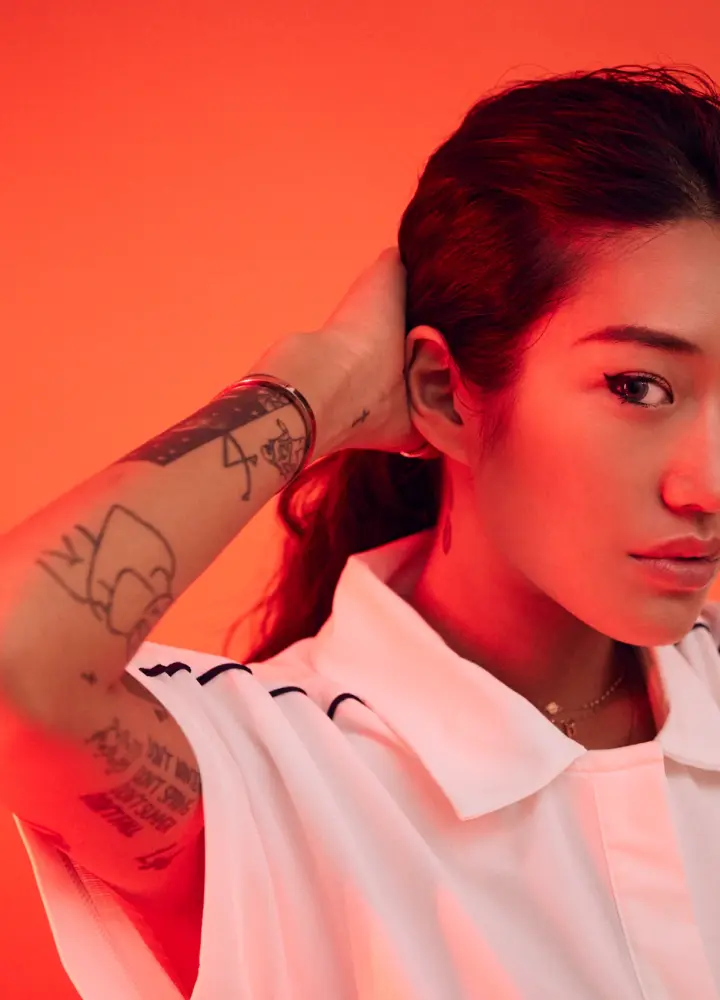
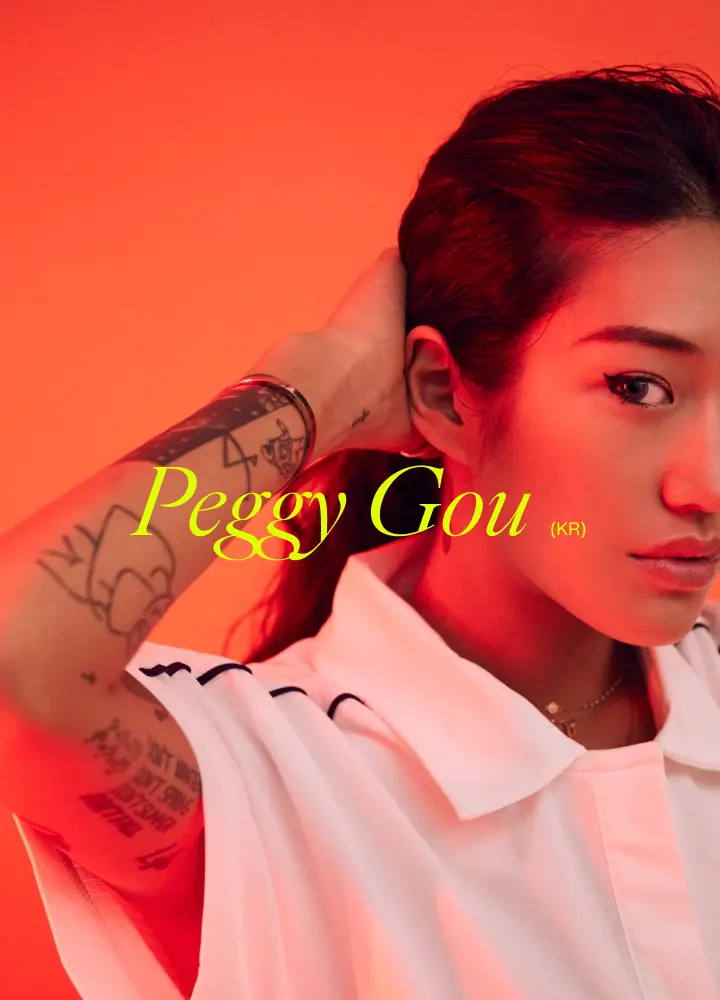
more changes to the landing page

Changed region(s): [[0.1833, 0.465, 0.7333, 0.558], [0.7639, 0.496, 0.825, 0.558]]

diff --git a/pages/index.js b/pages/index.js
@@ -25,31 +25,34 @@ export default function Home({ data }) {
             unforgettable celebration of sound and sensation.
           </h2>{" "}
         </div>
-        <div className={styles.announcement}>
-          <div>
-            <p>
-            “  We are 24 hours a day, 7 days a week, 365 days a year. ”
-            </p>
-            <p className={styles.buyTickets}>Buy Tickets →</p>
-          </div>
-          <div><img src="pics/landing1.webp" alt="My Image" /></div>
+        <div className={styles.flexContainer}>
+      <div className={styles.row}>
+        <div className={styles.box}>
+          <img src="pics/landing1.webp" alt="First Image" className={styles.image} />
         </div>
-
-        <div className={styles.announcement}>
-          <div>{/* <img src={myImage} alt="My Image" /> */}</div>
-          <div>
-            <h2>THE BEATLES ARE COMING</h2>
-            <p>
-              Officia eiusmod labore fugiat anim duis et anim consectetur enim
-              ex aute nisi aute sunt proident. Excepteur magna ea ea ut cillum
-              incididunt exercitation consequat. Dolor minim id ea ullamco
-              excepteur commodo ea labore deserunt aliquip voluptate anim aute
-              proident. Officia ut et enim Lorem veniam. Veniam sunt Lorem
-              labore Lorem aliqua velit aliquip voluptate cupidatat dolor
-              aliqua. Aute laborum esse aute ea amet.
-            </p>
-          </div>
+        <div className={styles.box}>
+        <div className={styles.textContainer}> <p className={styles.centeredText}>“We are <span className={styles.writtenBox}> 24 hours</span> a day, <span className={styles.writtenBox}>7 days</span> a week, <span className={styles.writtenBox}>365 days</span> a year. ”</p></div>
+          <p className={styles.buttonText}> <div className={styles.writtenBuyTickets}>Buy</div>Tickets →</p>
         </div>
+      </div>
+      <div className={styles.row}>
+        <div className={styles.box}>
+       <p className={styles.artistsText}> <span className={styles.writtenBuyTickets}>New</span>Artists →</p>
+          <p className={styles.artistsText2}>“ 시간 그 허망함 속에 이젠 그만 나오려 해요 ⸺ Time, amid that emptiness, I'm about to <span className={styles.written}> leave</span> now. ”</p>
+        </div>
+        <div className={styles.box}>
+          <img src="pics/landing2.webp" alt="Second Image" className={styles.image} />
+        </div>
+      </div>
+      <div className={styles.row}>
+        <div className={styles.box}>
+          <img src="pics/landing3.webp" alt="Second Image"  className={styles.image} />
+        </div>
+        <div className={styles.box}>
+        <div className={styles.textContainer}> <p className={styles.centeredText2}><span className={styles.writtenBuyTickets}>See</span>Program →</p><p className={styles.centeredText3}>More music and events will be added to the program.</p></div>
+        </div>
+      </div>
+    </div>
         <Newsletter />
       </main>
     </>

diff --git a/styles/Home.module.css b/styles/Home.module.css
@@ -25,7 +25,7 @@
 }
 
 .Main {
-  width: 95%;
+  width: 100%;
   margin: auto;
 }
 
@@ -36,12 +36,70 @@
   align-items: center;
 }
 
-
-.announcement {
+.flexContainer {
   display: flex;
-  justify-content: space-around;
+  flex-wrap: wrap;
 }
 
+.row {
+  width: 100%;
+  display: flex;
+  height: 120vh; 
+}
+
+.box {
+  flex-basis: 50%;
+  position: relative; 
+}
+.buttonText{
+  font-size: 45px;
+  position: absolute;
+  bottom: 2%;
+  right: 3%;
+  display: inline;  
+}
+.artistsText{
+  font-size: 45px;
+  position: absolute;
+  top: 2%;
+  left: 3%; 
+}
+.artistsText2{
+  font-size: 25px;
+  position: absolute;
+  bottom: 10%;
+  width: 90%;
+  left: 5%; 
+}
+.image {
+  width: 100%;
+  height: 100%;
+  object-fit: cover;
+  overflow: hidden;
+}
+.textContainer {
+  position: absolute;
+  top: 50%;
+  left: 50%;
+  transform: translate(-50%, -50%);
+  display: flex;
+  flex-direction: column;
+  justify-content: center;
+  align-items: center;
+  height: 100%;
+}
+.centeredText {
+  text-align: center;
+  font-size: 25px;
+}
+.centeredText2 {
+  text-align: center;
+  font-size: 45px;
+}
+.centeredText3 {
+  text-align: center;
+  font-size: 17px;
+}
 .Newsletter {
   display: flex;
   flex-direction: column;
@@ -129,12 +187,23 @@ font-size: 30px;
   display: inline;
 font-size: 40px;
 }
+.writtenBuyTickets {
+  font-family: "FiveSerifLightItalic";
+  display: inline;
+font-size: 50px;
+margin-right: 3%;
+}
 .writtenFoo {
   font-family: "FiveSerifLightItalic";
   font-size:300px;
   justify-content: center;
   display: inline;
   color: var(--accent-color);
+}
+.writtenBox {
+  font-family: "FiveSerifLightItalic";
+  font-size:35px;
+  display: inline;
 }
 .writtenFoo h3{
   font-family: "Studio6Regular";
@@ -147,6 +216,7 @@ font-size: 40px;
 .landingLetters {
   margin-bottom: 15%;
   margin-top: 8%;
+  margin-left: 3%;
 }
 .landingLetters h2 {
   text-justify: inter-character;
